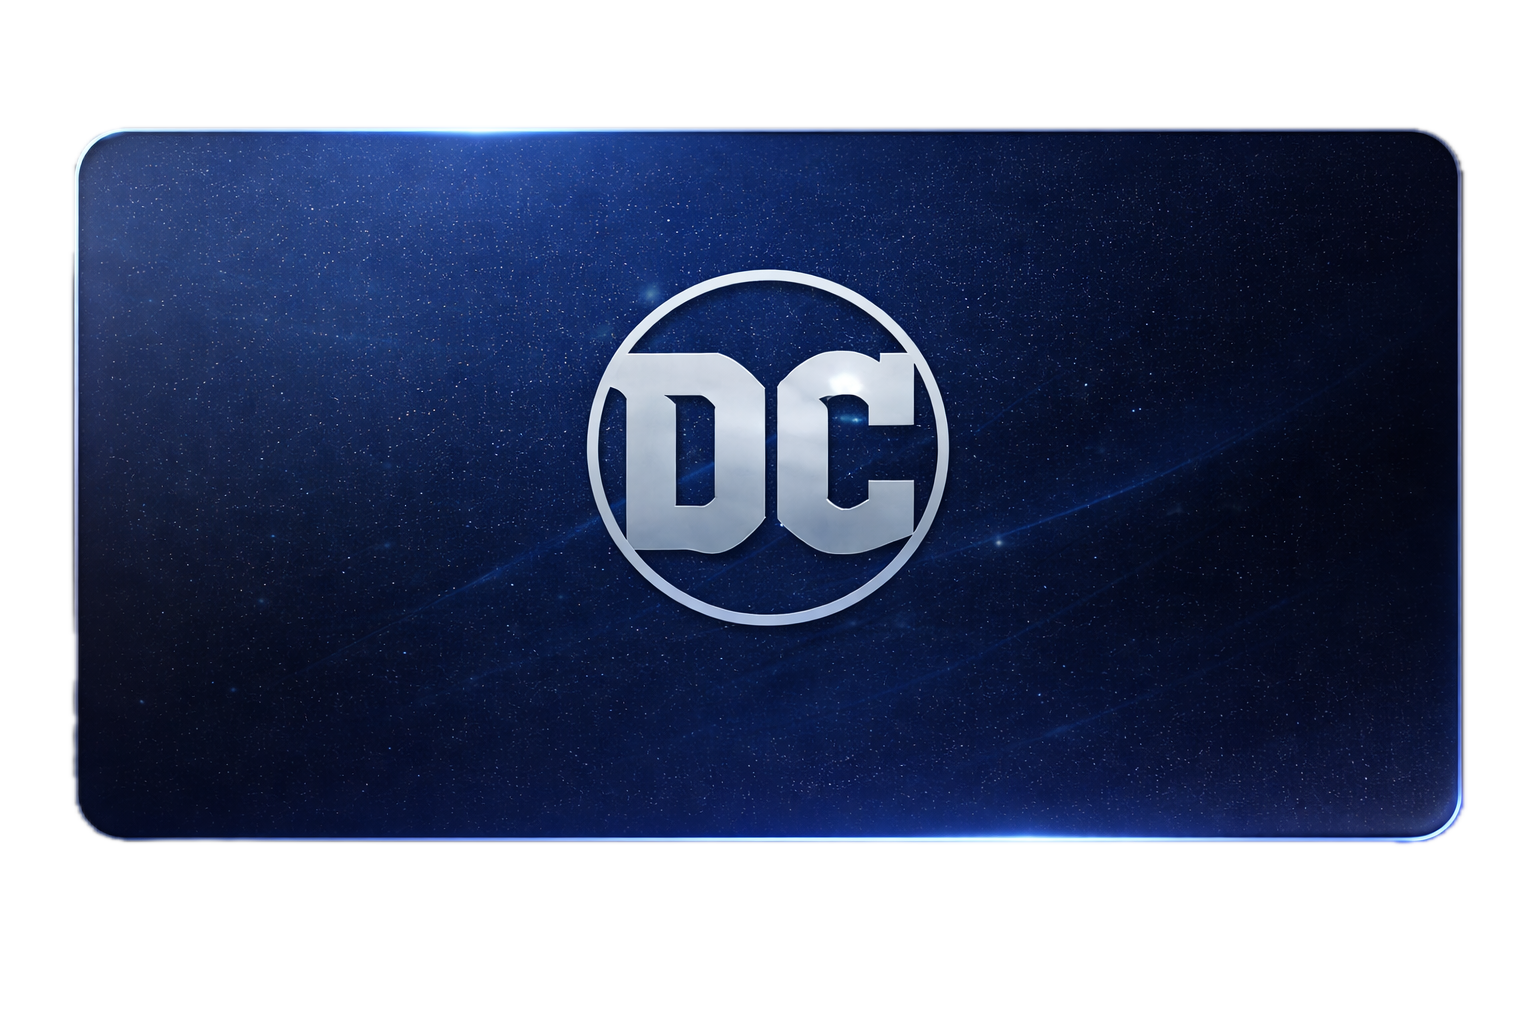
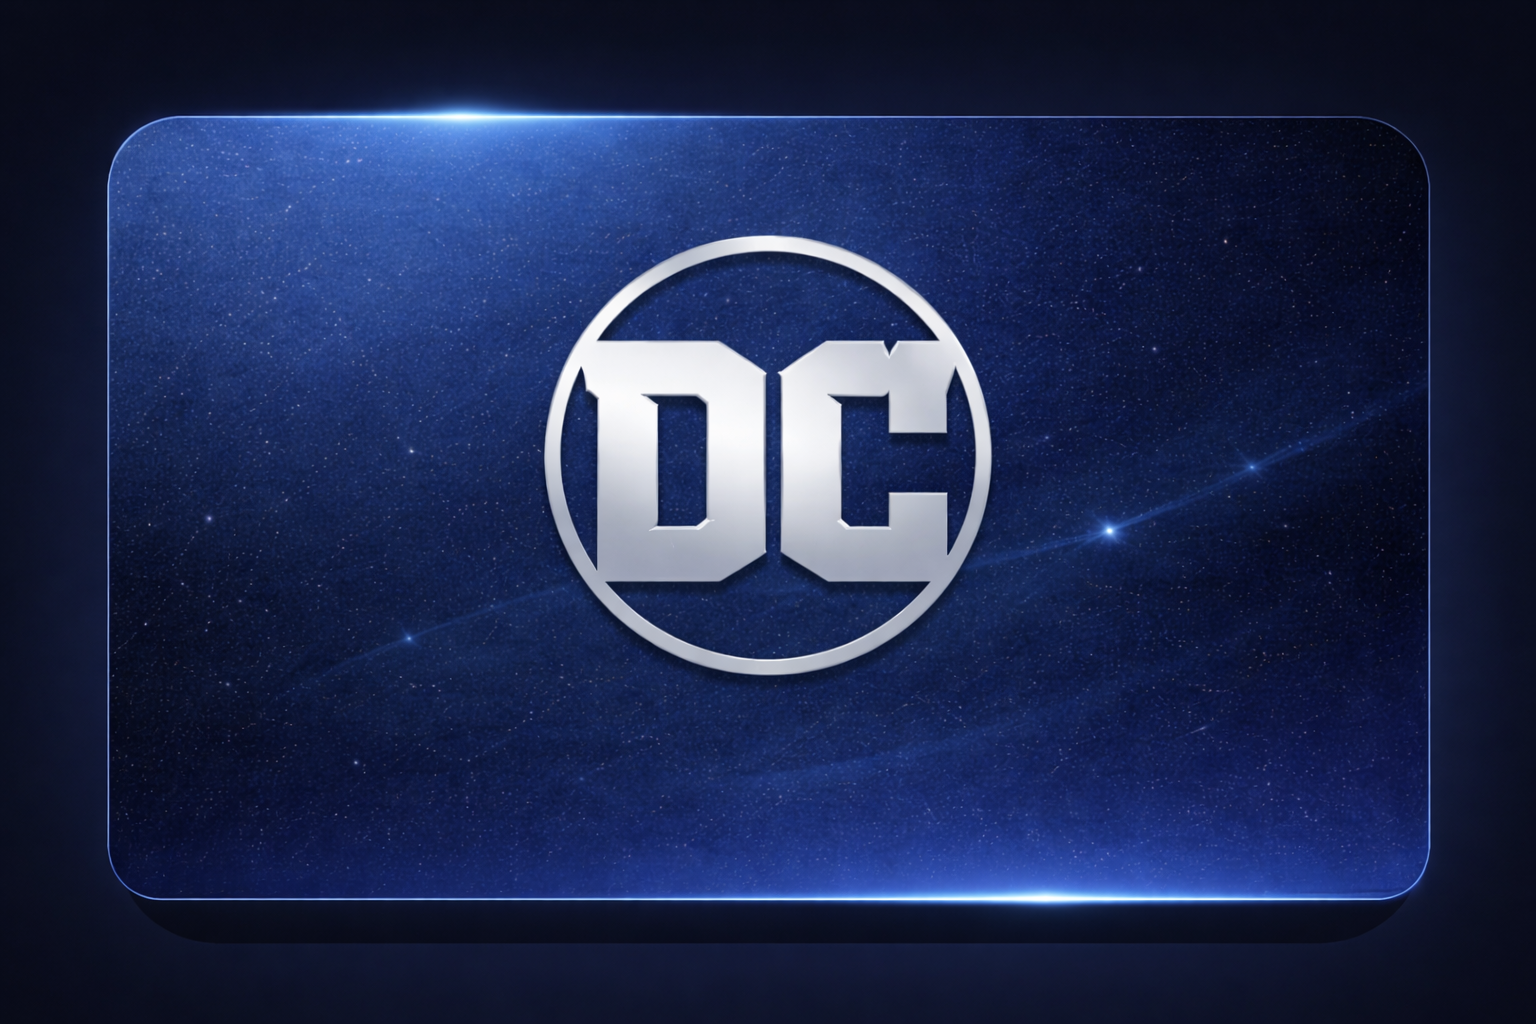
fix: new Disney/Pixar/Marvel/DC images + extra bottom crop for bordered cards
- Replace Disney, Pixar, Marvel, DC with new versions
- Add cropBottom: 25% on DreamWorks, Universal, WB, Netflix, MGM,
  20th Century, Columbia, Legendary, Skydance, Ghibli to hide
  the thicker baked-in bottom border

diff --git a/app/(main)/studios/page.tsx b/app/(main)/studios/page.tsx
@@ -56,7 +56,7 @@ const FEATURED_STUDIOS = [
     slug: 'dreamworks',
     name: 'DreamWorks',
     image: '/studios/dreamworks-card.png',
-    imagePosition: 'center center',
+    cropBottom: '25%',
     gradient: 'radial-gradient(ellipse at 50% 40%, rgba(20,50,100,0.5) 0%, rgba(12,30,60,0.8) 50%, rgba(8,14,30,0.95) 100%)',
     border: 'rgba(70,120,200,0.20)',
     glow: '0 0 40px rgba(40,80,160,0.12), 0 0 80px rgba(30,60,130,0.06)',
@@ -78,7 +78,7 @@ const FEATURED_STUDIOS = [
     slug: 'universal',
     name: 'Universal',
     image: '/studios/universal-card.png',
-    imagePosition: 'center center',
+    cropBottom: '25%',
     gradient: 'radial-gradient(ellipse at 50% 40%, rgba(20,50,100,0.5) 0%, rgba(10,25,55,0.8) 50%, rgba(6,12,28,0.95) 100%)',
     border: 'rgba(60,120,210,0.20)',
     glow: '0 0 40px rgba(35,80,180,0.12), 0 0 80px rgba(25,60,140,0.06)',
@@ -89,7 +89,7 @@ const FEATURED_STUDIOS = [
     slug: 'warner-bros',
     name: 'Warner Bros.',
     image: '/studios/warner-bros-card.png',
-    imagePosition: 'center center',
+    cropBottom: '25%',
     gradient: 'radial-gradient(ellipse at 50% 40%, rgba(60,50,20,0.5) 0%, rgba(30,25,12,0.8) 50%, rgba(14,12,8,0.95) 100%)',
     border: 'rgba(180,150,60,0.20)',
     glow: '0 0 40px rgba(140,110,40,0.12), 0 0 80px rgba(100,80,30,0.06)',
@@ -124,7 +124,7 @@ const FEATURED_STUDIOS = [
     slug: 'netflix',
     name: 'Netflix',
     image: '/studios/netflix-card.png',
-    imagePosition: 'center 42%',
+    cropBottom: '25%',
     gradient: 'radial-gradient(ellipse at 50% 40%, rgba(120,20,20,0.5) 0%, rgba(60,10,10,0.8) 50%, rgba(20,6,6,0.95) 100%)',
     border: 'rgba(200,50,50,0.22)',
     glow: '0 0 40px rgba(180,30,30,0.15), 0 0 80px rgba(140,20,20,0.08)',
@@ -135,7 +135,7 @@ const FEATURED_STUDIOS = [
     slug: 'mgm',
     name: 'Metro-Goldwyn-Mayer',
     image: '/studios/mgm-card.png',
-    imagePosition: 'center 42%',
+    cropBottom: '25%',
     gradient: 'radial-gradient(ellipse at 50% 40%, rgba(80,60,20,0.5) 0%, rgba(40,30,10,0.8) 50%, rgba(16,12,6,0.95) 100%)',
     border: 'rgba(200,160,60,0.22)',
     glow: '0 0 40px rgba(160,120,40,0.12), 0 0 80px rgba(120,90,30,0.06)',
@@ -146,7 +146,7 @@ const FEATURED_STUDIOS = [
     slug: '20th-century',
     name: '20th Century Studios',
     image: '/studios/20th-century-card.png',
-    imagePosition: 'center 42%',
+    cropBottom: '25%',
     gradient: 'radial-gradient(ellipse at 50% 40%, rgba(80,60,20,0.5) 0%, rgba(40,28,10,0.8) 50%, rgba(16,12,6,0.95) 100%)',
     border: 'rgba(200,150,50,0.22)',
     glow: '0 0 40px rgba(160,110,30,0.12), 0 0 80px rgba(120,80,20,0.06)',
@@ -157,7 +157,7 @@ const FEATURED_STUDIOS = [
     slug: 'columbia',
     name: 'Columbia Pictures',
     image: '/studios/columbia-card.png',
-    imagePosition: 'center 42%',
+    cropBottom: '25%',
     gradient: 'radial-gradient(ellipse at 50% 40%, rgba(60,50,30,0.5) 0%, rgba(30,25,15,0.8) 50%, rgba(14,12,8,0.95) 100%)',
     border: 'rgba(180,150,80,0.20)',
     glow: '0 0 40px rgba(140,110,50,0.12), 0 0 80px rgba(100,80,30,0.06)',
@@ -168,7 +168,7 @@ const FEATURED_STUDIOS = [
     slug: 'legendary',
     name: 'Legendary',
     image: '/studios/legendary-card.png',
-    imagePosition: 'center 42%',
+    cropBottom: '25%',
     gradient: 'radial-gradient(ellipse at 50% 40%, rgba(80,50,15,0.5) 0%, rgba(40,25,8,0.8) 50%, rgba(16,10,4,0.95) 100%)',
     border: 'rgba(200,140,50,0.22)',
     glow: '0 0 40px rgba(160,100,30,0.12), 0 0 80px rgba(120,70,20,0.06)',
@@ -179,7 +179,7 @@ const FEATURED_STUDIOS = [
     slug: 'skydance',
     name: 'Skydance',
     image: '/studios/skydance-card.png',
-    imagePosition: 'center 42%',
+    cropBottom: '25%',
     gradient: 'radial-gradient(ellipse at 50% 40%, rgba(60,50,30,0.5) 0%, rgba(30,25,15,0.8) 50%, rgba(14,12,8,0.95) 100%)',
     border: 'rgba(180,140,60,0.20)',
     glow: '0 0 40px rgba(140,100,40,0.12), 0 0 80px rgba(100,70,20,0.06)',
@@ -190,7 +190,7 @@ const FEATURED_STUDIOS = [
     slug: 'ghibli',
     name: 'Studio Ghibli',
     image: '/studios/ghibli-card.png',
-    imagePosition: 'center 42%',
+    cropBottom: '25%',
     gradient: 'radial-gradient(ellipse at 50% 40%, rgba(20,40,80,0.5) 0%, rgba(10,22,50,0.8) 50%, rgba(6,12,28,0.95) 100%)',
     border: 'rgba(60,100,180,0.20)',
     glow: '0 0 40px rgba(30,70,150,0.12), 0 0 80px rgba(20,50,120,0.06)',
@@ -299,11 +299,12 @@ function FeaturedStudioCard({
     >
       {/* Image background (when provided) */}
       {hasImage && (() => {
-        const inset = ('cropInset' in featured && featured.cropInset) || '15%';
+        const ci = ('cropInset' in featured && featured.cropInset) || '15%';
+        const cb = ('cropBottom' in featured && featured.cropBottom) || ci;
         return (
           <div
             className="absolute group-hover:scale-[1.03] transition-transform duration-500 ease-out"
-            style={{ top: `-${inset}`, right: `-${inset}`, bottom: `-${inset}`, left: `-${inset}` }}
+            style={{ top: `-${ci}`, right: `-${ci}`, bottom: `-${cb}`, left: `-${ci}` }}
           >
             <Image
               src={featured.image!}
